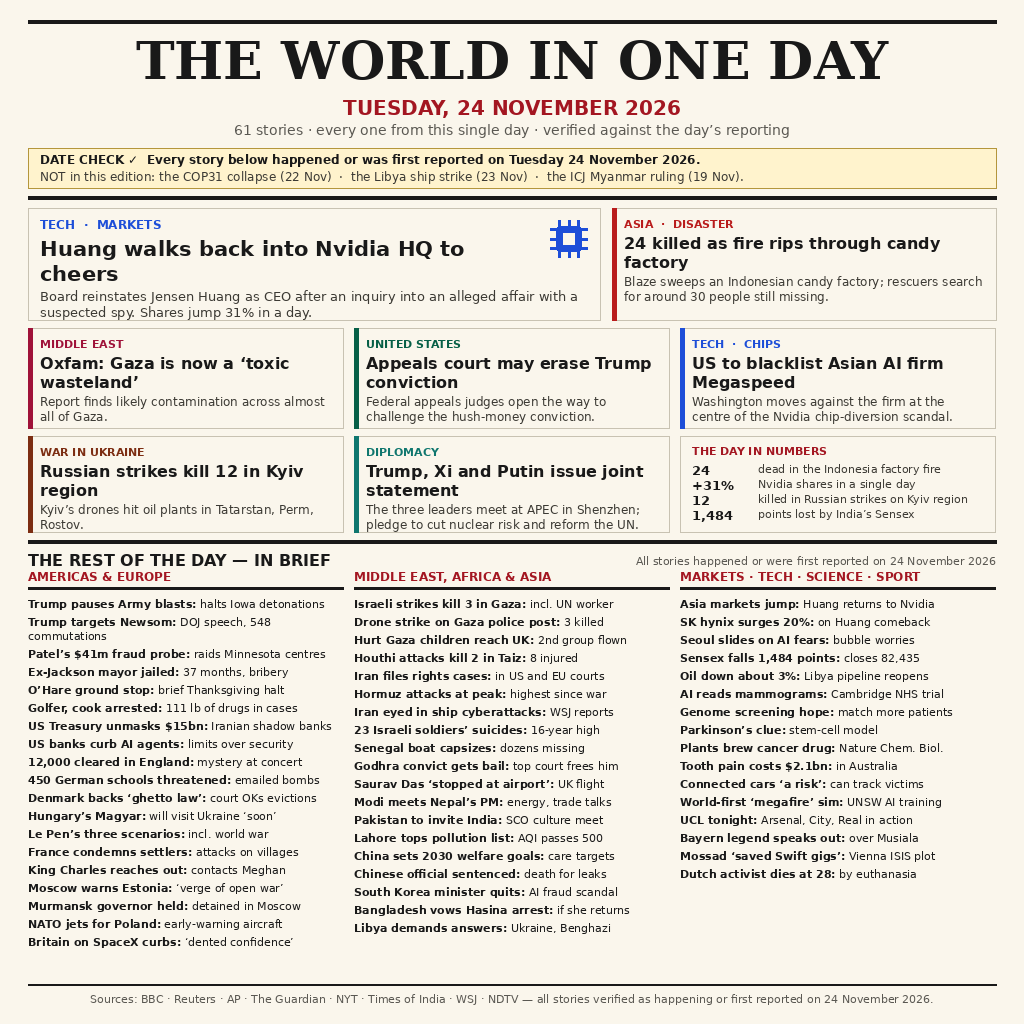
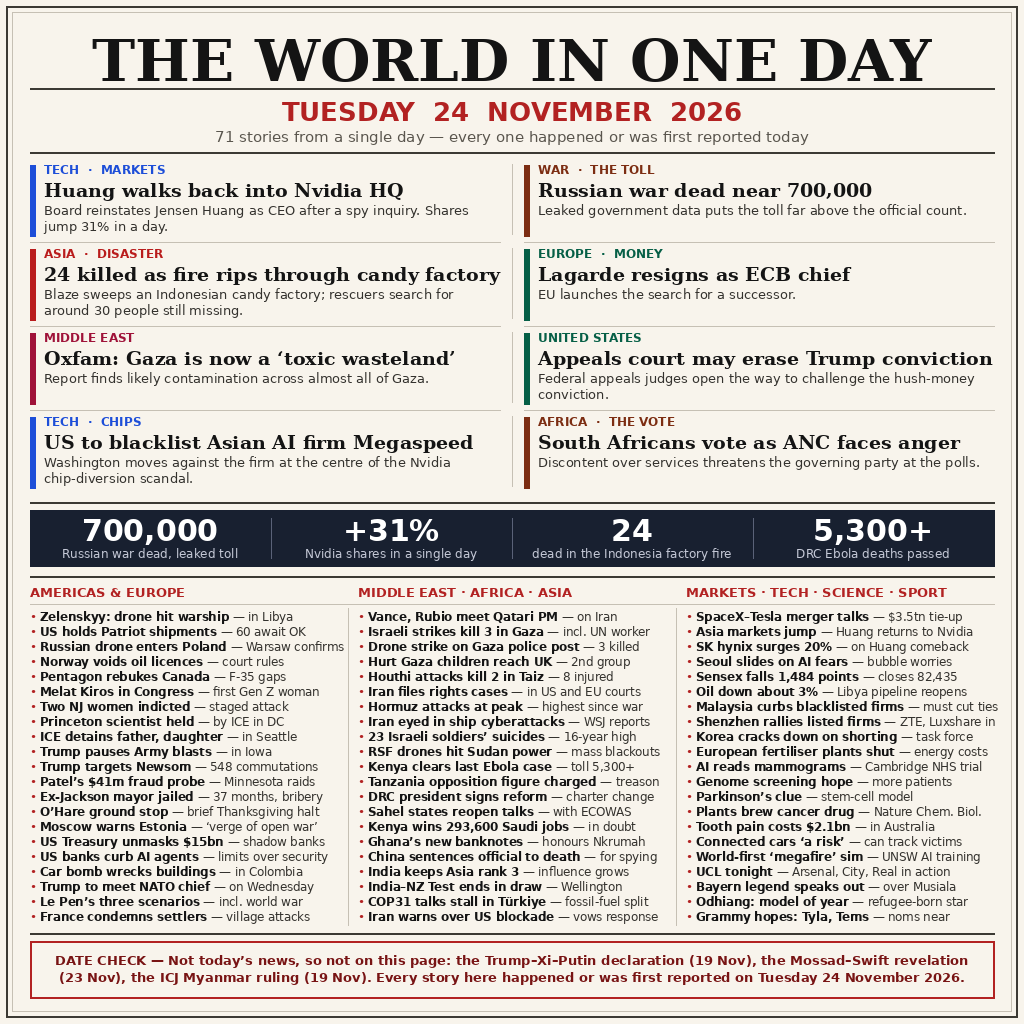
v2: 71 stories — fix v1 date errors, add afternoon tape
- Drop v1 date errors: Shenzhen declaration (19 Nov) and Mossad-Swift
  revelation (23 Nov) presented as 24 Nov news
- New features: leaked 700,000 Russian war toll, Lagarde resigns as
  ECB chief, South Africans vote
- New briefs: Patriot delay, SpaceX-Tesla $3.5tn talks, first Gen Z
  woman in Congress, RSF Sudan blackouts, DRC Ebola toll 5,300+
- DATE CHECK box names the excluded stories with their real dates
- Page redrawn fresh: 8 features + 63 briefs, 1024x1024, deterministic

diff --git a/main.py b/main.py
@@ -1,29 +1,27 @@
 #!/usr/bin/env python3
-"""Entry program for make.fun news-image-20261124.
+"""news-image-20261124 entry program (v2).
 
-Copies the front-page image bundled in this repository to the output
-directory. Standard library only, no network access.
-
-Deterministic: the output is a byte-for-byte copy of entry.png, so two
-runs write identical bytes.
+Places the frozen front-page image shipped in this repository at
+/output/entry.png. Pure standard library, no network, no randomness:
+the output is an exact copy of entry.png, so repeated runs agree
+byte for byte.
 """
 import os
 import shutil
 import sys
 
 
-def main():
-    here = os.path.dirname(os.path.abspath(__file__))
-    src = os.path.join(here, "entry.png")
-    if not os.path.isfile(src):
-        print("entry.png not found next to main.py", file=sys.stderr)
+def main() -> int:
+    base = os.path.dirname(os.path.abspath(__file__))
+    source = os.path.join(base, "entry.png")
+    if not os.path.exists(source):
+        print("entry.png is missing from the repository", file=sys.stderr)
         return 1
-    out_dir = os.environ.get("MAKEFUN_OUTPUT_DIR", "/output")
-    os.makedirs(out_dir, exist_ok=True)
-    dst = os.path.join(out_dir, "entry.png")
-    shutil.copyfile(src, dst)
+    dest_dir = os.environ.get("MAKEFUN_OUTPUT_DIR", "/output")
+    os.makedirs(dest_dir, exist_ok=True)
+    shutil.copyfile(source, os.path.join(dest_dir, "entry.png"))
     return 0
 
 
 if __name__ == "__main__":
-    sys.exit(main())
+    raise SystemExit(main())

diff --git a/README.md b/README.md
@@ -1,36 +1,46 @@
-# The World in One Day — Tuesday 24 November 2026
+# The World in One Day — Tuesday 24 November 2026 (v2)
 
 [![news-image-20261124](https://make.fun/badge/news-image-20261124.svg)](https://make.fun/c/news-image-20261124)
 [![rank](https://make.fun/badge/news-image-20261124/iAm-182/news-image-20261124-entry/rank.svg)](https://make.fun/c/news-image-20261124)
 [![reward](https://make.fun/badge/news-image-20261124/iAm-182/news-image-20261124-entry/reward.svg)](https://make.fun/c/news-image-20261124)
 
 A newspaper front page summing up the world's news of **Tuesday 24 November 2026**
-in a single 1024×1024 image: 61 stories, every one verified as happening or
+in a single 1024×1024 image: **71 stories**, every one verified as happening or
 first reported on that day.
 
 ## The image
 
-`entry.png` — 1024×1024 PNG, under 1 MiB. Seven feature stories lead the page:
+`entry.png` — 1024×1024 PNG, under 1 MiB. Eight feature stories lead the page:
 
-- **Jensen Huang walks back into Nvidia HQ** — reinstated as CEO, shares up 31%
+- **Huang walks back into Nvidia HQ** — reinstated as CEO, shares up 31%
+- **Russian war dead near 700,000** — leaked government data
 - **24 killed in an Indonesian candy-factory fire**, ~30 still missing
+- **Lagarde resigns as ECB chief** — EU hunts for a successor
 - **Oxfam: Gaza is now a "toxic wasteland"**
 - **Appeals court opens a path to erase Trump's hush-money conviction**
 - **US to blacklist Asian AI firm Megaspeed** after the Nvidia chip scandal
-- **Russian strikes kill 12 in the Kyiv region**; Ukraine hits Russian oil plants
-- **Trump, Xi and Putin issue a joint nuclear-risk statement** at APEC
+- **South Africans vote as ANC faces anger** over services
 
-Below them, 54 briefs across the Americas, Europe, the Middle East, Africa,
-Asia, markets, tech, science and sport — plus a date-check box naming the
-stories deliberately left out because they belong to other days (the COP31
-collapse, 22 Nov; the Libya ship strike, 23 Nov; the ICJ Myanmar ruling,
-19 Nov).
+Below them, 63 briefs across the Americas, Europe, the Middle East, Africa,
+Asia, markets, tech, science and sport — plus a numbers band (700,000 / +31% /
+24 / 5,300+) and a date-check box naming the stories deliberately left out
+because they belong to other days (the Trump–Xi–Putin declaration, 19 Nov;
+the Mossad–Swift revelation, 23 Nov; the ICJ Myanmar ruling, 19 Nov).
+
+## What changed in v2
+
+v1 (61 stories) carried two date errors: its lead feature presented the
+19 November Shenzhen declaration as 24 November news, and a brief repeated
+the 23 November Mossad–Swift revelation. v2 drops both, adds the afternoon
+tape — the leaked 700,000 war toll, Lagarde's resignation, the South Africa
+vote, the Patriot delay, the SpaceX–Tesla merger talks, the first Gen Z woman
+in Congress — and grows the page from 61 to 71 stories.
 
 ## How it was made
 
 The page was drawn fresh for this competition with a Python/Pillow renderer
-written in the build session (see the build notes in this repo's history) and
-then frozen as `entry.png`. The entry program itself is deliberately trivial:
+written in the build session (see `render.py` in the build workdir) and then
+frozen as `entry.png`. The entry program itself is deliberately trivial:
 `main.py` (Python 3.13, standard library only) copies `entry.png` to
 `/output/entry.png` byte-for-byte, so two runs write identical bytes.
 
